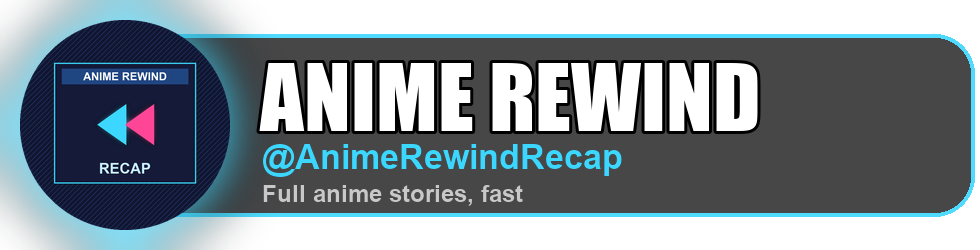
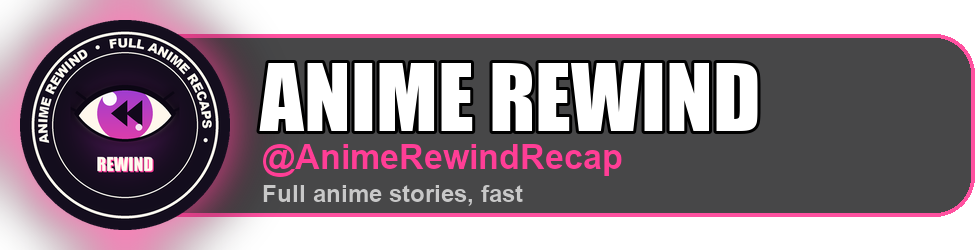
Daily run helper, kisskh title search, anime transcripts, new Anime Rewind brand

Changed region(s): [[0.0, 0.0, 1.0, 1.0]]

diff --git a/tools/daily.py b/tools/daily.py
@@ -1,0 +1,217 @@
+"""Daily video run: the mechanical parts, so the Claude run only writes the scripts.
+
+python tools/daily.py prep    make today's job folders from daily/plan.json, start the prep builds on GitHub,
+                              wait for them, download only the small sheets (no video ever comes to this PC)
+python tools/daily.py build   push the written scripts and start the real builds, queued to each page
+python tools/daily.py post    ask GitHub to post each page's next queued video (queue_post.py keeps the gap)
+
+daily/plan.json  pages -> slots. A slot is a series (next episode or part), a movie pool, or a promo.
+daily/today.json today's jobs: job, page, kind, prep run, state (prep/ready/failed/built).
+"""
+from __future__ import annotations
+
+import datetime as dt
+import json
+import re
+import subprocess
+import sys
+import time
+from pathlib import Path
+
+ROOT = Path(__file__).resolve().parent.parent
+PLAN, TODAY = ROOT / "daily" / "plan.json", ROOT / "daily" / "today.json"
+PAGES = ("anime", "spoiler", "manhwax")
+WAIT_MINUTES = 90
+
+
+def sh(*args: str, check: bool = True) -> str:
+    out = subprocess.run(args, cwd=ROOT, capture_output=True, text=True, encoding="utf-8", errors="replace")
+    if check and out.returncode != 0:
+        raise RuntimeError(f"{' '.join(args[:4])} failed: {out.stderr.strip()[-600:]}")
+    return out.stdout.strip()
+
+
+def load(path: Path) -> dict:
+    return json.loads(path.read_text(encoding="utf-8")) if path.exists() else {}
+
+
+def save(path: Path, data: dict) -> None:
+    path.write_text(json.dumps(data, indent=1, ensure_ascii=False) + "\n", encoding="utf-8")
+
+
+def slug(text: str) -> str:
+    return re.sub(r"[^a-z0-9]+", "-", text.lower()).strip("-")
+
+
+def queue_items(page: str) -> list[dict]:
+    return load(ROOT / "queue" / f"{page}.json").get("items", [])
+
+
+def series_job(slot: dict) -> tuple[str, dict] | None:
+    n = slot["next"]
+    if n > slot.get("last", 10**6):
+        return None
+    job = slot["job"].format(n=n)
+    if slot["type"] == "manga":
+        per = slot["chapters_per_part"]
+        return job, {"type": "manga", "chapters": f"{(n - 1) * per + 1}-{n * per}", "sources": slot["sources"]}
+    if slot["type"] == "anime":
+        return job, {"type": "anime", "title": slot["title"], "episode": n, "lang": slot.get("lang", "dub")}
+    return job, {"type": "kisskh", "url": slot["url"], "episode": n, "shot_sheets": True}
+
+
+def movie_job(slot: dict) -> tuple[str, dict] | None:
+    title = next((t for t in slot["pool"] if t not in slot["used"]), None)
+    if title is None:
+        return None
+    if slot["source"] == "anime":
+        return f"jobs/{slot['prefix']}-{slug(title)}", {"type": "anime", "title": title, "episode": 1, "lang": "dub"}
+    return f"jobs/{slot['prefix']}-{slug(title)}", {"type": "kisskh", "search": title, "episode": 1, "shot_sheets": True}
+
+
+def promo_job(slot: dict, page: str) -> tuple[str, dict, dict] | None:
+    """Newest posted part of the series that has no promo yet."""
+    posted = {i.get("job"): i for i in queue_items(page) if i.get("posted_at") and i.get("post")}
+    parts = sorted((ROOT / "jobs").glob(f"{slot['of']}-p*"), key=lambda p: -int(re.sub(r"\D", "", p.name[-3:]) or 0))
+    for part in parts:
+        if part.name.endswith("-promo") or (part.parent / f"{part.name}-promo").exists():
+            continue
+        item = posted.get(f"jobs/{part.name}")
+        if item:
+            src = json.loads((part / "source.json").read_text(encoding="utf-8"))
+            return f"jobs/{part.name}-promo", src, {"parent": f"jobs/{part.name}",
+                                                   "parent_post": f"https://www.facebook.com/{item['post']}"}
+    return None
+
+
+def dispatch(job: str, queue: str = "") -> str:
+    args = ["gh", "workflow", "run", "build.yml", "-f", f"job={job}"] + (["-f", f"queue={queue}"] if queue else [])
+    url = sh(*args).splitlines()[-1]
+    return url.rsplit("/", 1)[-1]
+
+
+def push(message: str) -> None:
+    sh("git", "add", "jobs")
+    if sh("git", "diff", "--cached", "--name-only"):
+        sh("git", "commit", "-qm", message)
+    sh("git", "pull", "-q", "--rebase")
+    sh("git", "push", "-q")
+
+
+def wait(runs: dict[str, str]) -> dict[str, str]:
+    """run id -> conclusion, polling until every run is done or the time is up."""
+    done: dict[str, str] = {}
+    end = time.time() + WAIT_MINUTES * 60
+    while len(done) < len(runs) and time.time() < end:
+        for rid in runs:
+            if rid not in done:
+                info = json.loads(sh("gh", "run", "view", rid, "--json", "status,conclusion"))
+                if info["status"] == "completed":
+                    done[rid] = info["conclusion"]
+        if len(done) < len(runs):
+            time.sleep(45)
+    return done
+
+
+def prep() -> None:
+    today = dt.date.today().isoformat()
+    state = load(TODAY)
+    if state.get("date") != today:
+        if state.get("jobs") and any(j["state"] in ("ready", "prep") for j in state["jobs"]):
+            print("WARNING: yesterday had unbuilt jobs:", [j["job"] for j in state["jobs"] if j["state"] != "built"])
+        plan = load(PLAN)
+        jobs = []
+        for page in PAGES:
+            for slot in plan[page]:
+                kind = slot["kind"]
+                extra: dict = {}
+                if kind == "series":
+                    made = series_job(slot)
+                elif kind == "movie":
+                    made = movie_job(slot)
+                else:
+                    found = promo_job(slot, page)
+                    made, extra = (found[:2], found[2]) if found else (None, {})
+                if not made:
+                    print(f"skip {page}/{kind}: nothing left or nothing posted yet")
+                    continue
+                job, src = made
+                folder = ROOT / job
+                folder.mkdir(parents=True, exist_ok=True)
+                if not (folder / "source.json").exists():
+                    save(folder / "source.json", src)
+                ready = kind == "promo" or (folder / "script.json").exists()
+                jobs.append({"job": job, "page": page, "kind": kind, "slot": plan[page].index(slot),
+                             "state": "ready" if ready else "prep", **extra})
+        state = {"date": today, "jobs": jobs}
+        save(TODAY, state)
+        push(f"Daily run {today}: job folders")
+    todo = [j for j in state["jobs"] if j["state"] == "prep"]
+    for j in todo:
+        if not j.get("prep_run"):
+            j["prep_run"] = dispatch(j["job"])
+            print(f"prep started {j['job']} run {j['prep_run']}", flush=True)
+    save(TODAY, state)
+    results = wait({j["prep_run"]: j["job"] for j in todo})
+    for j in todo:
+        result = results.get(j["prep_run"], "timeout")
+        if result != "success":
+            j["state"], j["why"] = "failed", f"prep run {j['prep_run']}: {result}"
+            continue
+        sheets = ROOT / j["job"] / "sheets"
+        sheets.mkdir(exist_ok=True)
+        sh("gh", "run", "download", j["prep_run"], "-n", "sheets", "-D", str(sheets), check=False)
+        j["state"] = "ready"
+    save(TODAY, state)
+    report(state)
+
+
+def report(state: dict) -> None:
+    print(f"\n== {state['date']} ==")
+    for j in state["jobs"]:
+        sheets = ROOT / j["job"] / "sheets"
+        files = sorted(p.name for p in sheets.glob("*")) if sheets.exists() else []
+        line = f"{j['state']:7} {j['page']:8} {j['kind']:7} {j['job']}"
+        if j.get("parent"):
+            line += f"  parent={j['parent']} post={j['parent_post']}"
+        if j.get("why"):
+            line += f"  ({j['why']})"
+        if files:
+            line += f"  sheets: {', '.join(files)}"
+        print(line)
+
+
+def build() -> None:
+    state, plan = load(TODAY), load(PLAN)
+    ready = [j for j in state["jobs"] if j["state"] == "ready"]
+    missing = [j["job"] for j in ready if not (ROOT / j["job"] / "script.json").exists()]
+    if missing:
+        print("no script.json yet:", missing)
+    ready = [j for j in ready if j["job"] not in missing]
+    push(f"Daily run {state['date']}: scripts")
+    for j in ready:
+        j["build_run"] = dispatch(j["job"], j["page"])
+        j["state"] = "built"
+        slot = plan[j["page"]][j["slot"]]
+        if j["kind"] == "series":
+            slot["next"] += 1
+        elif j["kind"] == "movie":
+            src = json.loads((ROOT / j["job"] / "source.json").read_text(encoding="utf-8"))
+            slot["used"].append(src.get("search") or src.get("title"))
+        print(f"build started {j['job']} -> {j['page']} run {j['build_run']}", flush=True)
+    for j in state["jobs"]:  # a movie that would not download is dropped from the pool, so tomorrow tries the next
+        if j["state"] == "failed" and j["kind"] == "movie":
+            slot = plan[j["page"]][j["slot"]]
+            src = json.loads((ROOT / j["job"] / "source.json").read_text(encoding="utf-8"))
+            slot["used"].append(src.get("search") or src.get("title"))
+    save(TODAY, state)
+    save(PLAN, plan)
+
+
+def post() -> None:
+    for page in PAGES:
+        print(page, sh("gh", "workflow", "run", "post.yml", "-f", f"page={page}", "-f", "dry_run=false", check=False))
+
+
+if __name__ == "__main__":
+    {"prep": prep, "build": build, "post": post, "report": lambda: report(load(TODAY))}[sys.argv[1]]()

diff --git a/tools/fetch_source.py b/tools/fetch_source.py
@@ -5,6 +5,8 @@
 {"type": "webtoon", "urls": ["...episode-1...", "..."]}  manhwa strips, then panels via manhwa_panels.py
 {"type": "manga", "sources": [...], "chapters": "1-6"}  first source that works (list from find_manhwa.py)
 {"type": "url", "url": "..."}                           any direct video link
+{"type": "kisskh", "search": "parasite", "episode": 1}  kisskh title search instead of a url (first hit)
+A dubbed anime has no subtitle file, so its English audio is transcribed (Groq Whisper) to work/english.txt.
 """
 from __future__ import annotations
 
@@ -99,10 +101,37 @@ def srt_to_text(srt: Path, out: Path) -> None:
     out.write_text("\n".join(lines) + "\n", encoding="utf-8")
 
 
+def kisskh_search(query: str) -> str:
+    code = f"""
+from kisskh_downloader.kisskh_api import KissKHApi
+hits = list(KissKHApi().search_dramas_by_query({query!r}))
+exact = [h for h in hits if h.title.strip().lower() == {query!r}.lower()]
+h = (exact or hits)[0]
+print('URL=https://kisskh.co/Drama/x?id=' + str(h.id)); print('TITLE=' + h.title)
+"""
+    out = subprocess.run([*UV, "--with", "kisskh-downloader", "python", "-c", code], capture_output=True, text=True, check=True)
+    print(out.stdout, flush=True)
+    return next(l[4:] for l in out.stdout.splitlines() if l.startswith("URL="))
+
+
+def transcribe(job: Path) -> None:
+    """English audio -> work/english.txt ('<second> <line>'), for sources without a subtitle file."""
+    audio = job / "work" / "audio.mp3"
+    sh(["ffmpeg", "-v", "error", "-y", "-i", str(job / "source.mp4"), "-vn", "-ac", "1", "-ar", "16000",
+        "-b:a", "24k", str(audio)])
+    out = job / "work" / "transcript.json"
+    sh([*UV, "--with", "groq", "--with", "truststore", "python", "tools/groq_transcribe.py", str(audio), str(out), "en"])
+    segs = json.loads(out.read_text(encoding="utf-8")).get("segments", [])
+    (job / "work" / "english.txt").write_text(
+        "".join(f"{s['start']:7.1f} {s['text'].strip()}
+" for s in segs), encoding="utf-8")
+
+
 def kisskh(job: Path, src: dict) -> None:
     """A film or drama episode from kisskh (needs the WARP step on GitHub), plus English subtitles."""
     ep = str(src.get("episode", 1))
-    sh(["kisskh", "dl", src["url"], "-f", ep, "-l", ep, "-q", src.get("quality", "720p"), "-s", "en",
+    url = src.get("url") or kisskh_search(src["search"])
+    sh(["kisskh", "dl", url, "-f", ep, "-l", ep, "-q", src.get("quality", "720p"), "-s", "en",
         "-o", str(job / "dl")])
     next((job / "dl").rglob("*.mp4")).rename(job / "source.mp4")
     srt = next((job / "dl").rglob("*.srt"), None)
@@ -157,6 +186,11 @@ def main() -> None:
             "\n".join(f"{a:.2f} {b:.2f}" for a, b in zip(cuts, cuts[1:]) if b - a > 0.3), encoding="utf-8")
     if src["type"] not in ("webtoon", "manga") and not any(job.glob("script*.json")):  # prep run: help write the script
         film_sheets(job)
+        if src["type"] == "anime" and src.get("lang", "dub") == "dub" and not (job / "work" / "english.txt").exists():
+            try:
+                transcribe(job)
+            except (subprocess.CalledProcessError, OSError, ValueError) as err:
+                print(f"no transcript: {err}", flush=True)
     if src.get("shot_sheets") and not (job / "work" / "shot_sheet_01.jpg").exists():
         shot_sheets(job)
 

diff --git a/tools/queue_post.py b/tools/queue_post.py
@@ -49,7 +49,7 @@ def add(page: str, video: Path, caption: str, comment: str = "") -> None:
     finally:
         staged.unlink()
     path, queue = load(page)
-    queue["items"].append({"asset": asset, "caption": caption, "comment": comment, "added": datetime.now(timezone.utc).isoformat(timespec="seconds"),
+    queue["items"].append({"asset": asset, "job": video.parent.as_posix(), "caption": caption, "comment": comment, "added": datetime.now(timezone.utc).isoformat(timespec="seconds"),
                            "posted_at": None, "post": None})
     save(path, queue)
     print(f"queued {asset}; {sum(1 for i in queue['items'] if not i['posted_at'])} waiting")
